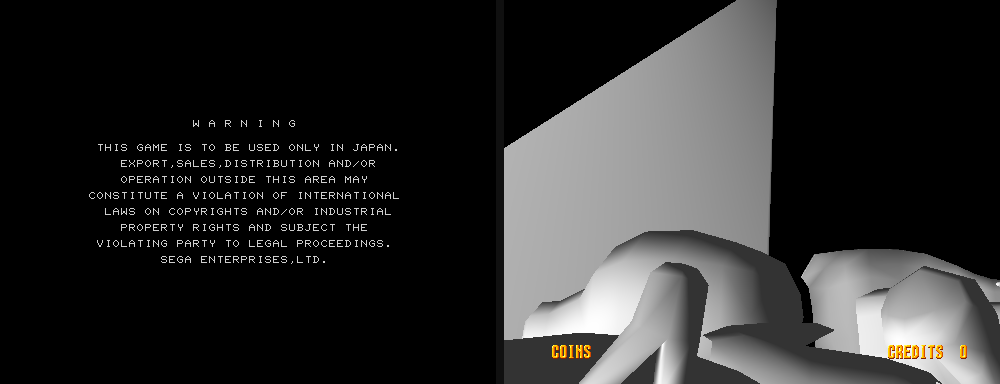
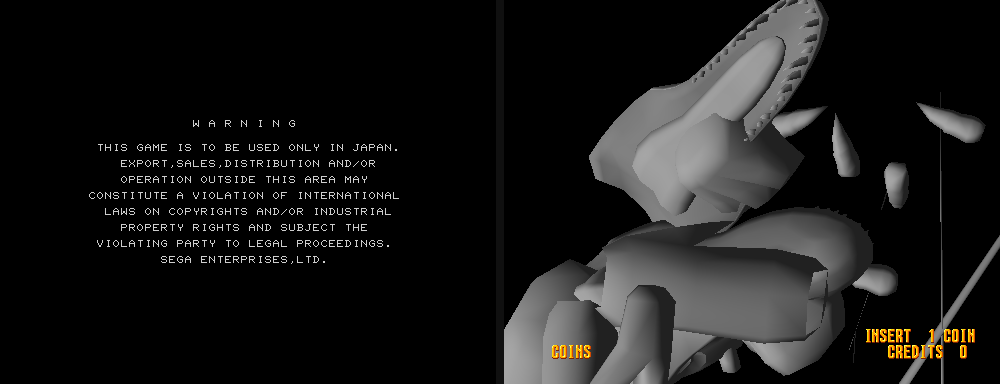
Recapture the screenshot at full brightness
The old one was field 2060, which is two thirds of the way through an
attract cross-fade -- so it was rendering correctly and looking dim, which
is the least useful pair of properties a screenshot can have.

Field 2040 instead: peak 236 of 255, mean 100 across the lit area, and the
most structure of any frame in the shot.

Changed region(s): [[0.496, 0.0, 1.0, 1.0], [0.899, 0.25, 0.992, 0.375]]

diff --git a/README.md b/README.md
@@ -5,10 +5,11 @@
 Left: the tile generator. This one is pixel-exact -- the same bytes as MAME
 renders, checked frame against frame.
 
-Right: the Real3D layer, mid-attract. The geometry, the transforms and the
-shading are the game's own; the flat grey is ours, because textures are not
-implemented and every polygon draws in its header colour. Whatever the
-subject is, you cannot tell from this, and that is the honest state of it.
+Right: the Real3D layer, one field out of an attract-mode shot. The
+geometry, the transforms, the per-vertex normals and the light are the
+game's own; the flat grey is ours, because textures are not implemented and
+every polygon draws in its header colour. What the subject is meant to be,
+you cannot tell from this, and that is the honest state of it.
 
 **The Lost World: Jurassic Park** (Sega, 1997) statically recompiled — the
 game's PowerPC code becomes native C, linked against a Model 3 board.
